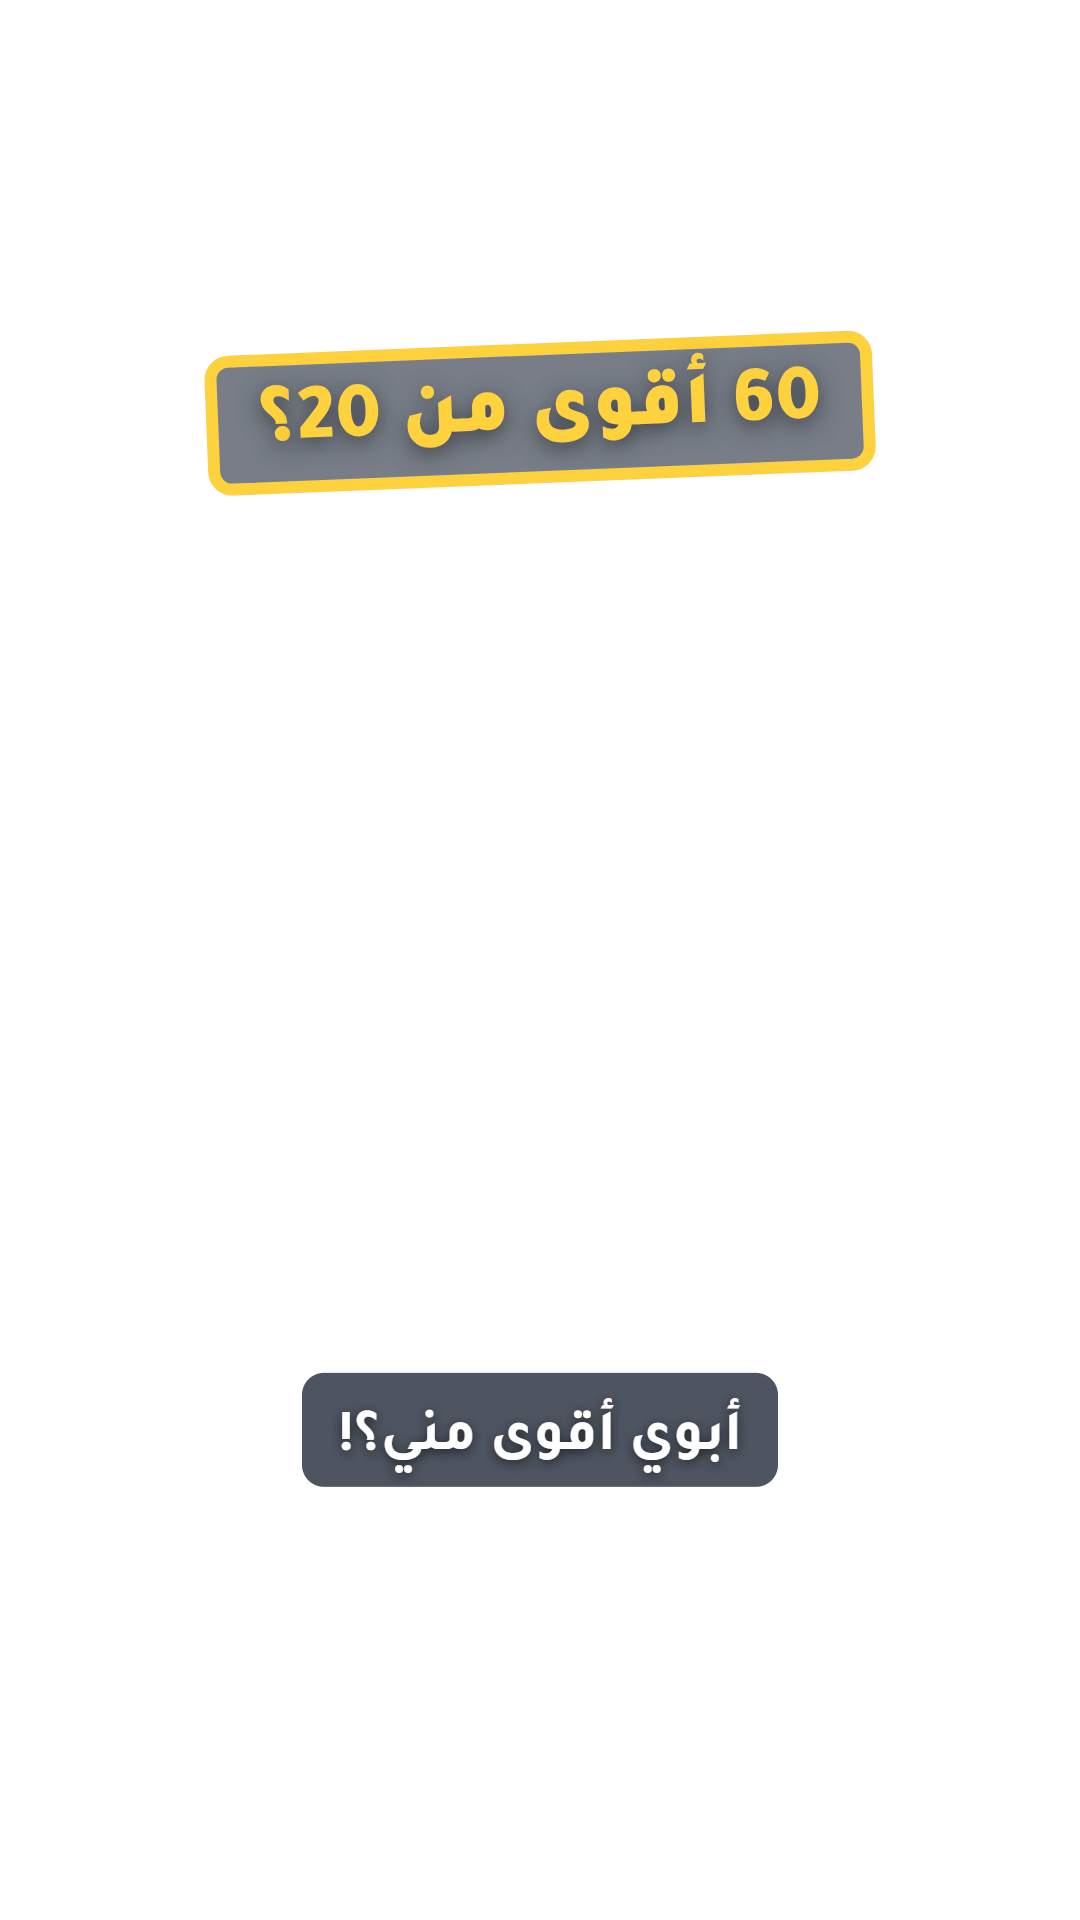
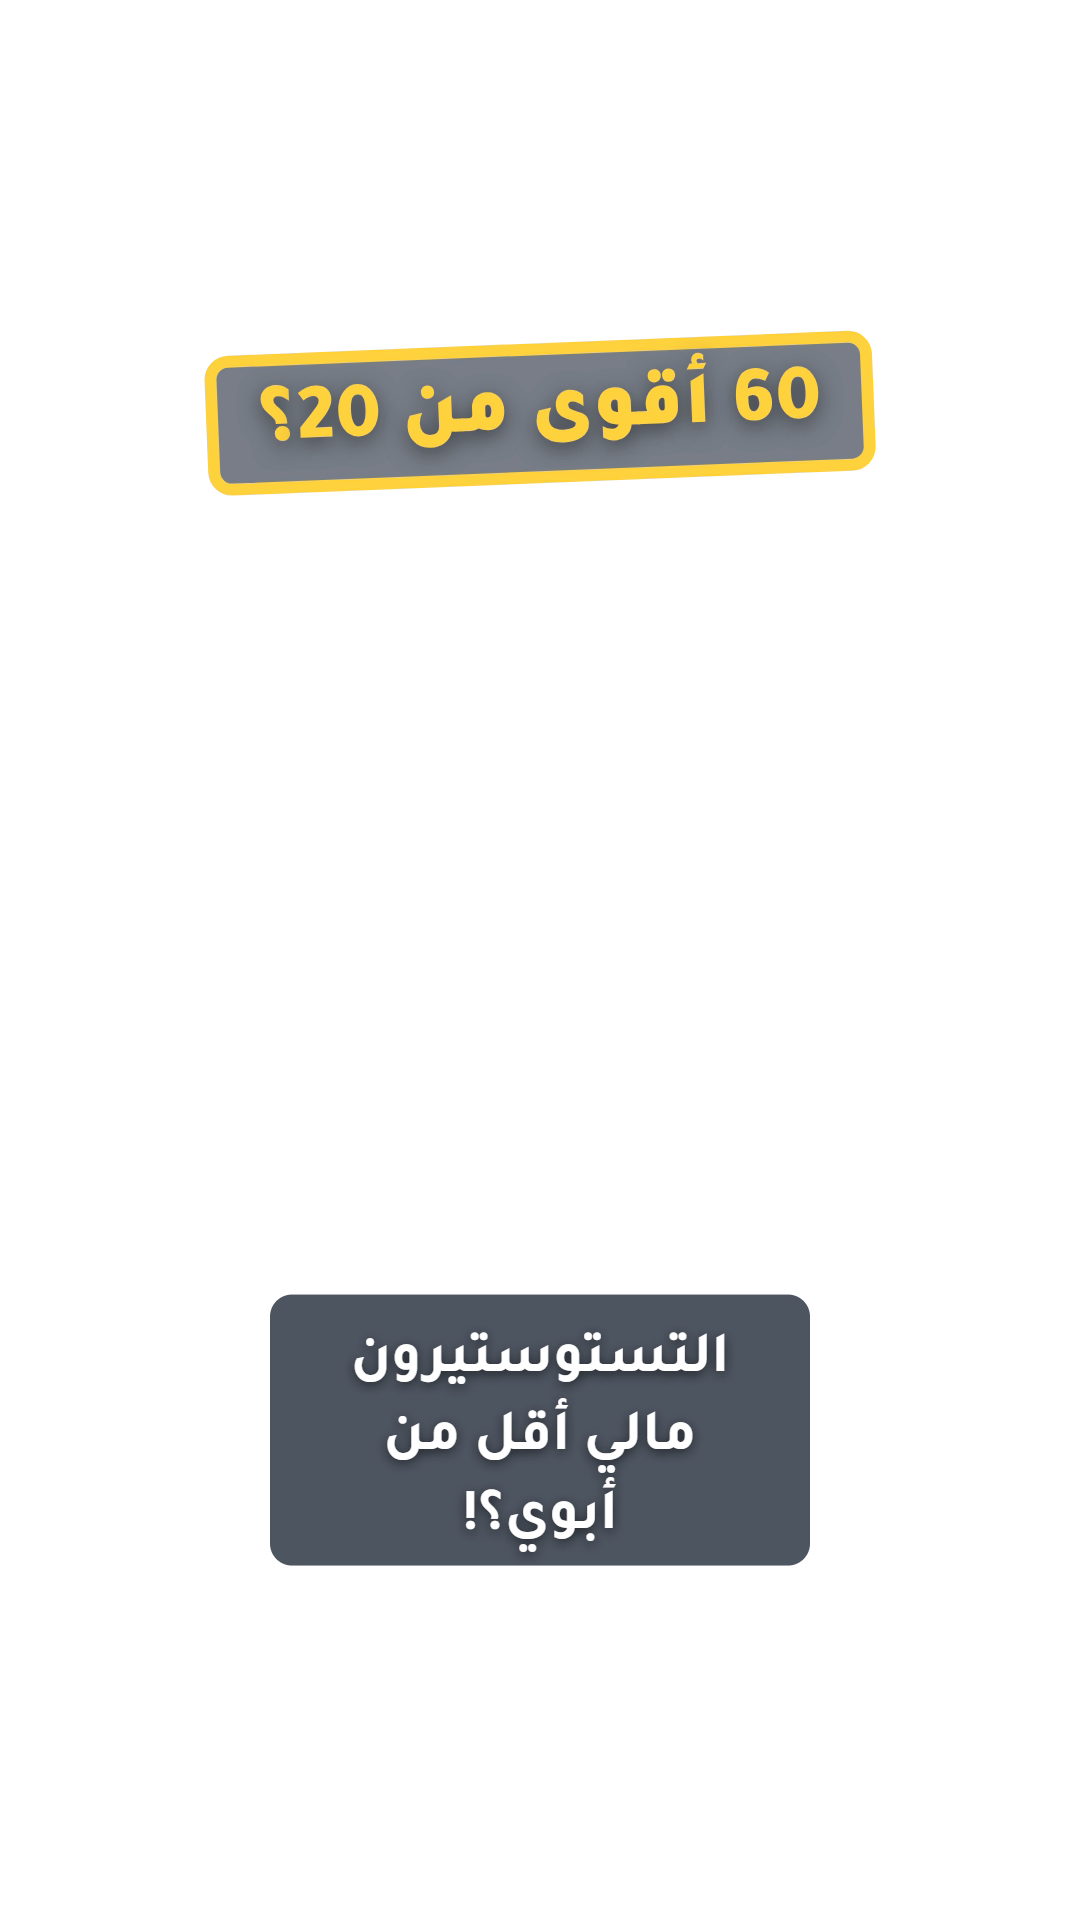
T6 hook: 4 test takes with مالي line, caption and overlay

Changed region(s): [[0.2444, 0.6562, 0.7639, 0.8125]]

diff --git a/handoff/kit_v2/scripts/make_captions.js b/handoff/kit_v2/scripts/make_captions.js
@@ -8,7 +8,7 @@ const C = {
   Kill_Testosterone: 'التستوستيرون عندي نازل!', T2_three: 'تستوستيرون منخفض؟! أنا شو مسوي غلط؟!', T3_free: 'تستوستيرون نازل… يعني لازم أشتري هذا كله؟!',
   T4_quiz: 'التستوستيرون نازل… من الرقاد ولا من الكرش؟!', Magnesium_montage: 'المغنيسيوم ما يفيد للنوم؟! وأنا آخذه كل ليلة!', M1_stop: 'مغنيسيوم للقلق… دليل ضعيف؟! دفعت كل هذا؟!',
   M2_exam: 'المغنيسيوم رسب في النوم؟!', M3_pov: 'حبة مغنيسيوم كل ليلة… وما أرقد؟!', M4_trend: 'ترند المغنيسيوم كذب علي؟!',
-  MRI5_twist: 'رحت أطمّن بالرنين… وطلع عندي شي؟!', MRI6_doctor: 'الرنين طلّع لي فحوصات زيادة؟! وأنا سليم!', PEP4_three: 'البيبتايد اللي اشتريته أونلاين… للأبحاث فقط؟!',
+  MRI5_twist: 'رحت أطمّن بالرنين… وطلع عندي شي؟!', MRI6_doctor: 'الرنين طلّع لي فحوصات زيادة؟! وأنا سليم!', T6_fitness: 'التستوستيرون مالي أقل من أبوي؟!', PEP4_three: 'البيبتايد اللي اشتريته أونلاين… للأبحاث فقط؟!',
 };
 (async () => {
   fs.mkdirSync(outDir, { recursive: true });

diff --git a/handoff/HANDOVER_FULL_2026-10-30.md b/handoff/HANDOVER_FULL_2026-10-30.md
@@ -143,6 +143,7 @@ Report in short, direct English; give AG's Arabic scripts in Arabic. Never publi
 - STATUS 6 Nov 2026, latest: AG ordered all voices regenerated to current rules. Scripts v3 (handoff/SCRIPTS_v3_emirati_pace_2026-11-06.md, shorter words for pace, realism+science check appended). 13 takes, eleven_v4, Emirati thick, 1 each, 5,186 credits ≈ $0.89 ≈ AED 3.3, in handoff/kit_v2/voice_v3/ with QC_measure_2026-11-06.txt. Pace (speech_compare method): 145–174 WPM, 11 of 13 below 165 (B1 ref 164). Whisper hears the clone say ق as g in some words (ارجد، راجد، يجلب) despite ق spelling. Phone page https://claude.ai/artifact/98MgpqHw6yjqsQMBm21EEx. Next: AG listens; decide pace; then rebuild 13 motion videos with v3 voices and re-assemble.
 - STATUS 6 Nov 2026, rebuild: AG fixes بيبتايد (not ببتيد) and جوازك (not يوازك); PEP4+T6 re-voiced (1,004 credits). Stories re-matched to v3 wording (kit_v2/stories, cue words remapped); word timing from local whisper via kit_v2/scripts/whisper_align.py; kit_v2/voice now holds the v3 voices + align. 13 motion videos rendered to out/reference_v3 (0 warnings), 12 previews assembled to out/final_preview_v3 (QC-D all OK, delta <= +0.09 s). Phone page https://claude.ai/artifact/VNmVE2SXC1BEsocFh2bkJZ. AG wants one MRI video dropped: which one is unconfirmed.
 - CHECKPOINT 6 Nov 2026: AG approved all v3 Arabic voices ("the sound is lovely") = new Arabic voice standard (rules file §3). AG DROPPED both MRI videos (MRI5_twist, MRI6_doctor); files kept, not shipped. Peptide caption + 2 motion labels fixed to بيبتايد, PEP4 re-rendered; the Flow hook actor still says roughly «البيبتيد» (needs a re-film to change). Live set: 10 previews in out/final_preview_v3 + T6_fitness motion (no hook yet). Next: T6 hook in Flow (AG notes Flow now offers 15 s clips), price first.
+- STATUS 6 Nov 2026, T6 hook test: AG approved 2 runs (30 credits ≈ AED 1.10), line «التستوستيرون مالي أقل من أبوي؟!» (مالي not حقي). Prompts in handoff/OMNI_HOOKS_T6_2026-11-06.md; files t6w/HOOK6_T6_R1.mp4 (takes 1–2) and R2 (takes 3–4); all 4 say the line once (whisper). Cuts: R1@0-4.95, R1@5-9.1, R2@0-4.95, R2@5-8.8. 4 test previews in out/t6_takes and on the phone page. Son looks slim, not the round belly asked. Another thread also downloaded T6 clinic clips at 09:05 (Downloads: Men_reacting_in_medical_clinic_738f3863, Two_men_comparing_medical_results_5edb0578). 15 s Flow option not visible on AG account (Omni 1.1 Flash, max 10 s). AG to pick a take.
 - Waiting on AG (was: regenerate R2 + R4, now done; 30 credits ≈ AED 1.10)? D9 pace, D1 design set, D5 photo, D4 T6 runs still open.
 - Tooling notes: Flow's download and trash icons sit side by side in the detail panel: click by element reference only. faster-whisper on this PC needs the wav loaded via numpy (its bundled `av` is too old). Prompt paste: select the ProseMirror contents with a Range before the synthetic paste, or the text is appended instead of replaced. `pace_165.py` now removes its temp file with os.remove (Windows has no rm); committed in fe4f37a.
 

diff --git a/handoff/OMNI_HOOKS_T6_2026-11-06.md b/handoff/OMNI_HOOKS_T6_2026-11-06.md
@@ -1,0 +1,26 @@
+# T6_fitness hook — 4 different takes (AG approved 6 Nov 2026: 2 runs, 30 credits, "it's a testing", each take different)
+
+Line (AG correction 6 Nov): «التستوستيرون مالي أقل من أبوي؟!» (مالي, not حقي; Emirati).
+Headline overlay added locally afterwards: «60 أقوى من 20؟» (kit_v2/overlays/T6_fitness.png).
+Settings: Omni 1.1 Flash · Video · Frames · 9:16 · 720p · 10 s · x1 = 15 credits per run → 2 runs = 30 credits. 15 s not offered on AG's account (checked 6 Nov).
+Each take differs in place, camera and action. Files: C:\Users\LENOVO\t6w\HOOK6_T6_R1.mp4, HOOK6_T6_R2.mp4.
+
+## RUN 1 — takes 1 and 2
+
+```
+Photoreal documentary realism, vertical 9:16, 10 seconds, two separate fast takes, natural skin texture with visible pores and fine stubble, hyper-expressive faces, kinetic camera, crisp ASMR sound in every take. Every paper, screen, label and prop is plain blank. Same two Emirati men in both takes: a fit father about 60 with silver hair and a neat white beard in a white kandura, and his son about 20 with a soft round belly in a white kandura. The son speaks Emirati Arabic.
+
+TAKE 1, 0–5 s: Bright clinic office, daylight; over the son's shoulder an Emirati doctor in a white coat hands him a plain blank result paper (paper rustle); slow push-in as he reads, his eyes widen, the paper trembles in his hand; whip pan to his face as he turns to his father: «التستوستيرون مالي أقل من أبوي؟!»; the father raises an eyebrow and smiles.
+TAKE 2, 5–10 s: Clinic waiting room, both men side by side on a bench; the father reads his own plain blank paper, grins and taps it proudly; the son snatches it (paper snap) and holds the two papers side by side; crash zoom on the son's stunned face: «التستوستيرون مالي أقل من أبوي؟!»
+Every line is spoken once per take.
+```
+
+## RUN 2 — takes 3 and 4
+
+```
+Photoreal documentary realism, vertical 9:16, 10 seconds, two separate fast takes, natural skin texture with visible pores and fine stubble, hyper-expressive faces, kinetic camera, crisp ASMR sound in every take. Every paper, screen, label and prop is plain blank. Same two Emirati men in both takes: a fit father about 60 with silver hair and a neat white beard in a white kandura, and his son about 20 with a soft round belly in a white kandura. The son speaks Emirati Arabic.
+
+TAKE 3, 0–5 s: Long hospital corridor, low angle from the floor; the son's plain blank paper slips from his hand and floats down in slow motion (paper flutter); cut up to his frozen face, mouth open, then he turns to his father: «التستوستيرون مالي أقل من أبوي؟!»; the father pats the son's belly with a calm smile.
+TAKE 4, 5–10 s: Clinic car park at sunset beside a white SUV; the son sits in the passenger seat reading a plain blank paper, then flings the door open and jumps out (car door thud), pointing at his father across the car roof: «التستوستيرون مالي أقل من أبوي؟!»; the father leans on the roof and laughs.
+Every line is spoken once per take.
+```
